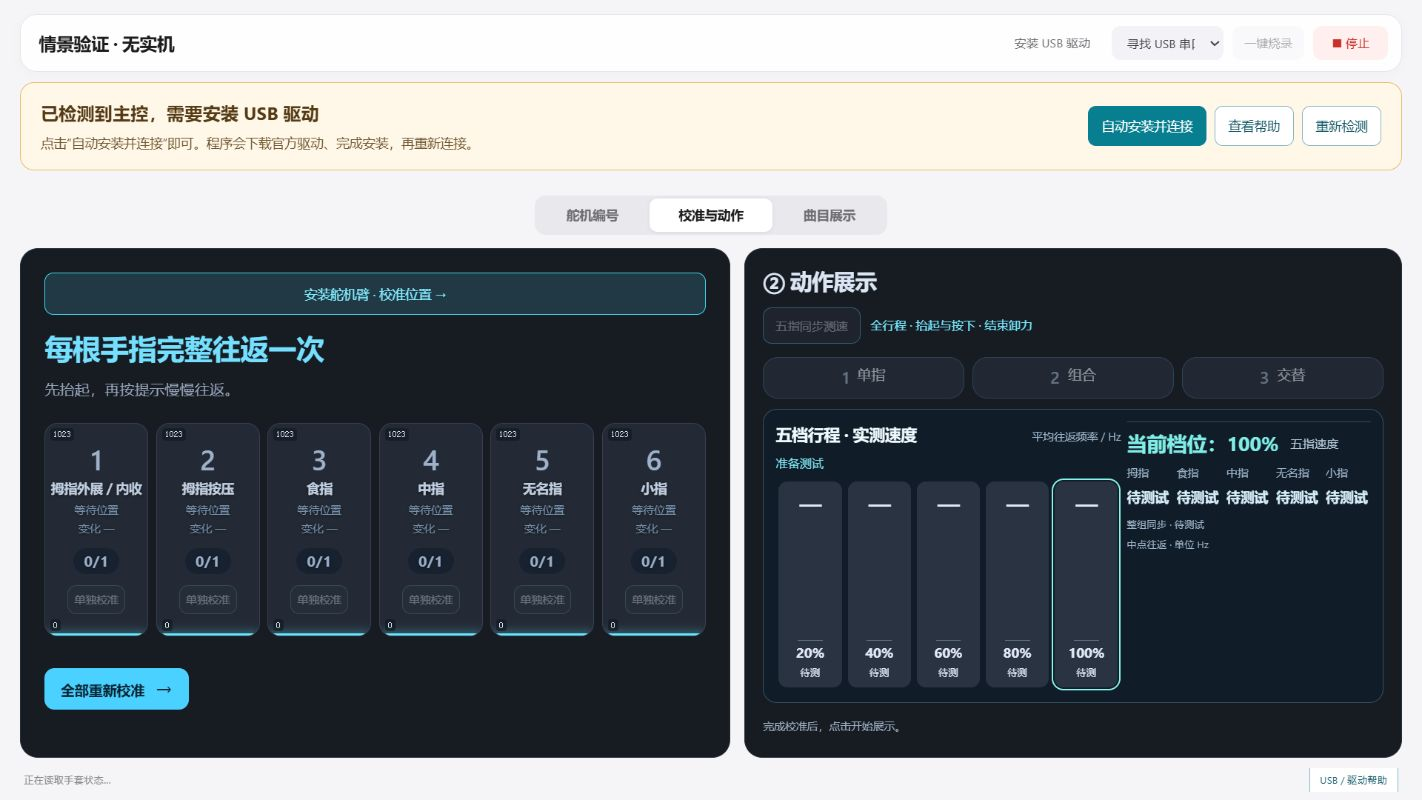
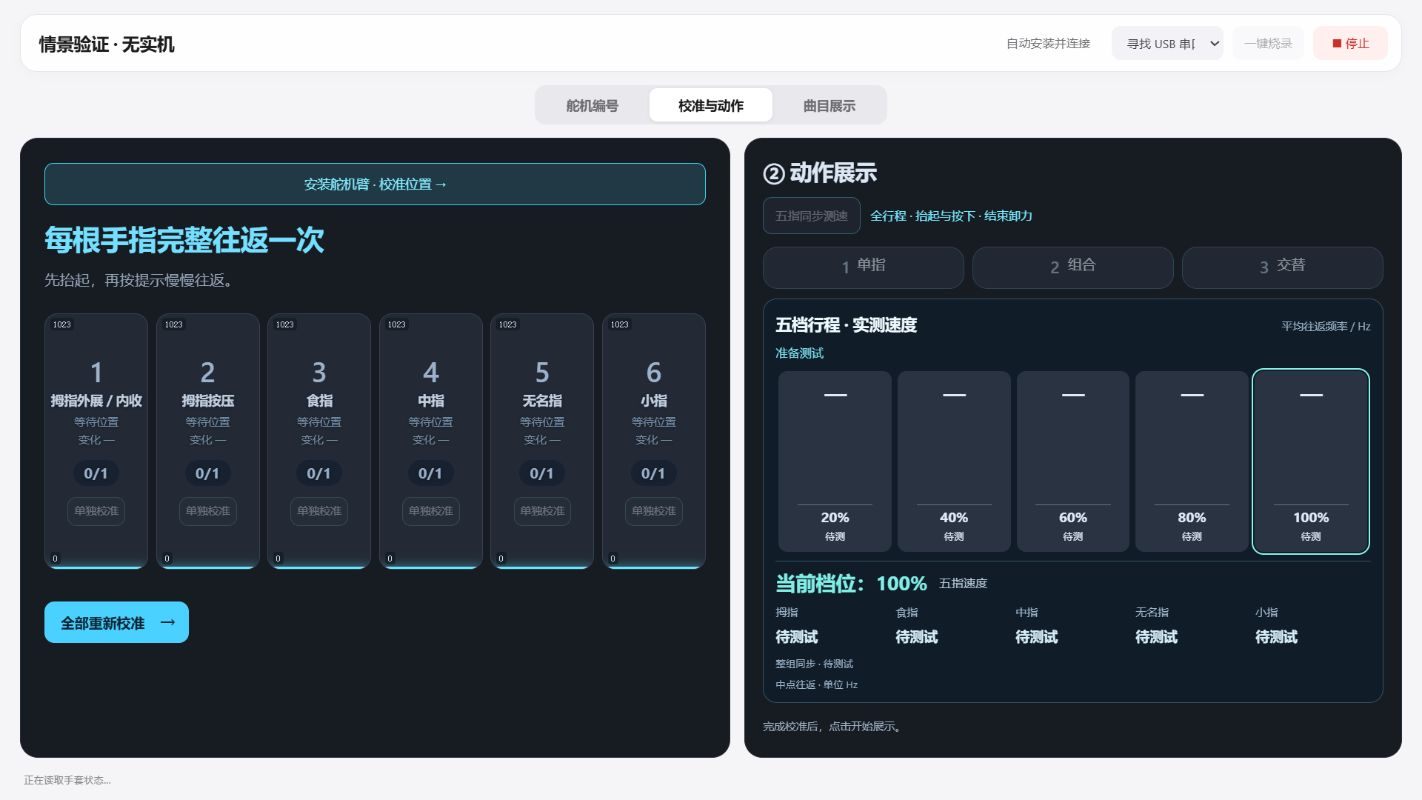
Keep USB driver setup inside the existing connection control

diff --git a/host/delivery-shell.js b/host/delivery-shell.js
@@ -10,14 +10,14 @@ function notice(text){q('demoNotice').textContent=text;}window.deliveryDemoNotic
 function tab(songs){q('demoCalibration').hidden=songs;q('demoSongs').hidden=!songs;q('demoTabCalibration').classList.toggle('active',!songs);q('demoTabSongs').classList.toggle('active',songs);}
 document.addEventListener('delivery:import',()=>tab(true));q('demoTabCalibration').onclick=()=>tab(false);q('demoTabSongs').onclick=()=>tab(true);
 async function api(path,body){const controller=new AbortController(),timer=setTimeout(()=>controller.abort(),4000);try{const r=await fetch(path,body===undefined?{cache:'no-store',signal:controller.signal}:{method:'POST',headers:{'Content-Type':'application/json'},body:JSON.stringify(body),signal:controller.signal});const j=await r.json();if(!r.ok||j.ok===false)throw Error(j.error||j.msg||`请求失败 ${r.status}`);return j;}finally{clearTimeout(timer);}}
-function paint(){const driverBusy=!!globalThis.PianoUsbDriver?.state()?.installation?.busy,isBusy=busy(),connected=!!bridge.connected&&!!S.info.ver,unknown=!!bridge.connected&&!connected&&attemptedIdentity===lastIdentity;q('demoConnection').textContent=driverBusy?'正在安装 USB 驱动':isBusy?'烧录中 '+(Number(firmware.progress)||0)+'% · 查看进度':connected?'已连接 '+bridge.port:unknown?bridge.port+'已连接 · 固件未识别':bridge.connected?'连接中 '+bridge.port:switching?'正在自动连接':'等待 USB · 自动连接';if(unknown)notice('串口已连接，固件未识别：'+(bridge.error||bridge.last_error||identificationError||'未收到有效应答，正在定期重新识别。'));if(!bridge.connected&&globalThis.PianoUsbDriver?.state()?.state==='missing_driver'&&!isBusy)q('demoConnection').textContent='安装 USB 驱动';q('demoConnection').classList.toggle('connected',connected);q('demoConnection').classList.toggle('warning',unknown);q('demoPort').classList.toggle('connected',!!bridge.connected&&q('demoPort').value===bridge.port);q('demoConnection').disabled=!isBusy&&(switching||active());q('demoPort').disabled=isBusy||switching;q('demoFlash').disabled=isBusy||active()||!q('demoPort').value||firmware.available===false;q('demoVersion').textContent=connected?({SCS:'SC09',STS:'STS'}[S.info.profile]||'识别中')+' · 设备 v'+S.info.ver:'';q('demoFirmwareTitle').textContent='烧录固件'+(firmware.version?' v'+firmware.version:'');const labels={idle:'等待操作',running:'处理中',built:'编译完成，未烧录',verified:'烧录完成，回读已验证',failed:'烧录失败',written_unverified:'已写入，回读未验证',queued:'准备中',stop:'正在停止任务',build:'正在编译',identify:'识别主控',write:'正在写入',verify:'校验写入内容',readback:'读取主控状态',complete:'完成'};q('demoFirmwareProgress').value=Math.max(0,Math.min(100,Number(firmware.progress)||0));let text=labels[firmware.busy?firmware.phase:firmware.state]||firmware.phase||'等待操作';if(firmware.error)text+='\n'+firmware.error;if(error)text+='\n'+error;if(firmware.stopConfirmed===true)text+='\n烧录前停止已确认。';if(firmware.verified===true)text+='\n未启动动作，可关闭窗口。';else if(firmware.written===true)text+='\n请确认主控回读结果，写入不代表验证通过。';q('demoFirmwareStatus').textContent=text;q('demoFirmwareLog').textContent=Array.isArray(firmware.log)?firmware.log.join('\n'):String(firmware.log||'');}
+function paint(){const driverBusy=!!globalThis.PianoUsbDriver?.state()?.installation?.busy,isBusy=busy(),connected=!!bridge.connected&&!!S.info.ver,unknown=!!bridge.connected&&!connected&&attemptedIdentity===lastIdentity;q('demoConnection').textContent=driverBusy?'安装驱动 '+(Number(globalThis.PianoUsbDriver.state()?.installation?.progress)||0)+'%':isBusy?'烧录中 '+(Number(firmware.progress)||0)+'% · 查看进度':connected?'已连接 '+bridge.port:unknown?bridge.port+'已连接 · 固件未识别':bridge.connected?'连接中 '+bridge.port:switching?'正在自动连接':'等待 USB · 自动连接';if(unknown)notice('串口已连接，固件未识别：'+(bridge.error||bridge.last_error||identificationError||'未收到有效应答，正在定期重新识别。'));if(!bridge.connected&&['missing_driver','device_error'].includes(globalThis.PianoUsbDriver?.state()?.state)&&!isBusy){q('demoConnection').textContent=globalThis.PianoUsbDriver.state()?.installation?.error?'重试安装驱动':'自动安装并连接';}q('demoConnection').title=globalThis.PianoUsbDriver?.state()?.installation?.message||'';q('demoConnection').classList.toggle('connected',connected);q('demoConnection').classList.toggle('warning',unknown);q('demoPort').classList.toggle('connected',!!bridge.connected&&q('demoPort').value===bridge.port);q('demoConnection').disabled=!isBusy&&(switching||active());q('demoPort').disabled=isBusy||switching;q('demoFlash').disabled=isBusy||active()||!q('demoPort').value||firmware.available===false;q('demoVersion').textContent=connected?({SCS:'SC09',STS:'STS'}[S.info.profile]||'识别中')+' · 设备 v'+S.info.ver:'';q('demoFirmwareTitle').textContent='烧录固件'+(firmware.version?' v'+firmware.version:'');const labels={idle:'等待操作',running:'处理中',built:'编译完成，未烧录',verified:'烧录完成，回读已验证',failed:'烧录失败',written_unverified:'已写入，回读未验证',queued:'准备中',stop:'正在停止任务',build:'正在编译',identify:'识别主控',write:'正在写入',verify:'校验写入内容',readback:'读取主控状态',complete:'完成'};q('demoFirmwareProgress').value=Math.max(0,Math.min(100,Number(firmware.progress)||0));let text=labels[firmware.busy?firmware.phase:firmware.state]||firmware.phase||'等待操作';if(firmware.error)text+='\n'+firmware.error;if(error)text+='\n'+error;if(firmware.stopConfirmed===true)text+='\n烧录前停止已确认。';if(firmware.verified===true)text+='\n未启动动作，可关闭窗口。';else if(firmware.written===true)text+='\n请确认主控回读结果，写入不代表验证通过。';q('demoFirmwareStatus').textContent=text;q('demoFirmwareLog').textContent=Array.isArray(firmware.log)?firmware.log.join('\n'):String(firmware.log||'');}
 async function identifyOnce(st,identity){const now=Date.now();if(identifying||busy()||active()||attemptedIdentity===identity&&now-lastProbeAt<(S.info.ver?10000:5000))return;identifying=true;attemptedIdentity=identity;lastProbeAt=now;identificationError='';T.attachBridge(st);stopPolling();paint();try{const reply=await api('/api/send',{cmd:'INFO',timeoutMs:650,quietMs:25});if(lastIdentity!==identity)return;const line=reply.lines?.find(l=>/^OK INFO\s/.test(l));if(line){const recovered=!S.info.ver;S.info=kv(line);S.needArm=true;refreshChips();if(recovered)notice('已自动连接 '+st.port+'，固件识别正常。');}else{S.info={};identificationError=reply.lines?.find(l=>/^ERR\b/.test(l))||'未收到有效 INFO 应答';}}catch(e){if(lastIdentity===identity){S.info={};identificationError=e.message;}}finally{identifying=false;paint();}}
 async function syncIdentity(st){const identity=st.connected?String(st.port)+':'+String(st.connectedAt):'';if(lastIdentity===identity){T._noteBridge(st);if(st.connected)await identifyOnce(st,identity);return;}const previous=lastIdentity;lastIdentity=identity;attemptedIdentity=null;identificationError='';T._q.length=0;if(T._qTimer){clearTimeout(T._qTimer);T._qTimer=null;}S.playing=false;if(S.raf)cancelAnimationFrame(S.raf);S.raf=null;stopPosPoll();silence();stopPolling();T.detachBridge();T._noteBridge(st);S.info={};S.slots={};S.needArm=true;if(window.pianoStrictExecutor?.active)window.pianoStrictExecutor.cancelled=true;document.dispatchEvent(new CustomEvent('delivery:identitychange',{detail:{previous,identity,state:st}}));refreshChips();if(st.connected)await identifyOnce(st,identity);}
 async function autoReconnect(st){if(st.connected){reconnectFailures=0;nextReconnectAt=0;return;}if(st.paused||busy()||active()||switching||Date.now()<nextReconnectAt)return;const ports=(st.ports||[]).filter(p=>p.eligible===true||p.candidate===true);const target=st.fixed?ports.find(p=>p.device===st.fixed):(ports.find(p=>p.device===chosen)||ports[0]);if(!target)return;switching=true;nextReconnectAt=Date.now()+2000;paint();try{const result=await api('/api/connect',{port:target.device,baud:115200});chosen=target.device;bridge=await api('/api/status');window.deliveryDemoState=bridge;reconnectFailures=0;if(!bridge.connected)throw Error('串口尚未就绪');await syncIdentity(bridge);notice('串口已自动连接，不自动启动动作。');}catch(e){reconnectFailures++;nextReconnectAt=Date.now()+Math.min(10000,2000*reconnectFailures);notice('正在自动重连：'+e.message);}finally{switching=false;paint();}}
 async function refresh(){if(polling)return;polling=true;try{const [st,fw]=await Promise.all([api('/api/status'),api('/api/firmware')]);bridge=st;firmware=fw;window.deliveryDemoState=st;const ports=(fw.ports||[]).filter(p=>p.eligible!==false&&(/CP210/i.test(p.label||p.description||'')||p.vid===4292));const current=st.fixed||chosen||st.port||q('demoPort').value;const options=ports.map(p=>new Option(p.port||p.device,p.port||p.device));if(st.fixed&&!options.length)options.push(new Option(st.fixed,st.fixed));if(Array.from(q('demoPort').options).map(o=>o.value).join('|')!==options.map(o=>o.value).join('|'))q('demoPort').replaceChildren(...options);if(options.some(o=>o.value===current))q('demoPort').value=current;else if(options.length)q('demoPort').selectedIndex=0;chosen=q('demoPort').value;paint();await syncIdentity(st);await autoReconnect(st);document.dispatchEvent(new CustomEvent('delivery:state',{detail:st}));paint();}catch(e){notice('读取状态失败：'+e.message);}finally{polling=false;}}
 async function connect(){if(busy()||switching)return;const target=q('demoPort').value;switching=true;error='';paint();try{if(active()){if(!window.deliveryDemoStop)throw Error('请先停止当前任务');await window.deliveryDemoStop();}const result=await api('/api/connect',{port:target,baud:115200});if(result.redirect){location.assign(result.redirect+'#play');return;}notice('串口已切换，不自动启动动作。');await refresh();}catch(e){notice('连接失败：'+e.message);}finally{switching=false;paint();}}
 
-q('demoConnection').onclick=()=>{if(globalThis.PianoUsbDriver?.state()?.installation?.busy||['missing_driver','device_error'].includes(globalThis.PianoUsbDriver?.state()?.state)){globalThis.PianoUsbDriver.open();return;}if(busy()){q('demoFirmwareDialog').show();return;}connect();};q('demoPort').onchange=()=>{chosen=q('demoPort').value;connect();};
+q('demoConnection').onclick=()=>{if(globalThis.PianoUsbDriver?.state()?.installation?.busy)return;if(['missing_driver','device_error'].includes(globalThis.PianoUsbDriver?.state()?.state)){globalThis.PianoUsbDriver.install();return;}if(busy()){q('demoFirmwareDialog').show();return;}connect();};q('demoPort').onchange=()=>{chosen=q('demoPort').value;connect();};
 q('demoStop').onclick=async()=>{try{if(busy()){T._q.length=0;if(T._qTimer){clearTimeout(T._qTimer);T._qTimer=null;}notice(firmware.stopConfirmed===true?'页面队列已清除；烧录前停止已确认，写入继续。':'页面队列已清除；主控维护中，硬件停止状态请以烧录日志为准。');return;}if(window.deliveryDemoStop)await window.deliveryDemoStop();T._q.length=0;if(T._qTimer){clearTimeout(T._qTimer);T._qTimer=null;}stopPlay(true);notice('已请求停止，不自动恢复。');}catch(e){notice('停止未确认：'+e.message);}};
 q('demoFlash').onclick=async()=>{if(busy()||active()||!q('demoPort').value)return;requesting=true;error='';q('demoFirmwareDialog').show();firmware={...firmware,state:'running',phase:'queued',progress:0,written:false,verified:false,error:''};paint();try{T._q.length=0;if(T._qTimer){clearTimeout(T._qTimer);T._qTimer=null;}stopPlay(true);await api('/api/firmware/flash',{port:q('demoPort').value});await refresh();}catch(e){error=e.message;firmware.state='failed';}finally{requesting=false;paint();}};
 q('demoFirmwareClose').onclick=()=>{q('demoFirmwareDialog').close();if(busy())notice('烧录仍在后台进行，点击顶部进度可查看；完成后自动恢复连接。');};

diff --git a/host/usb-driver.js b/host/usb-driver.js
@@ -11,17 +11,16 @@ function view(status,connected=false){
  if(state==='unplugged')return {show:true,title:'未检测到主控 USB',detail:'请接上主控，并使用支持数据传输的 USB 线。接好后会自动重新检测；已接好仍无反应可查看 USB 帮助。'};
  return {show:true,title:'暂时无法确认 USB 驱动状态',detail:'不能据此判断缺少驱动。可查看安装步骤，或在设备管理器核对 CP2102 是否有黄色感叹号。'};
 }
-const api={view,state:()=>null,open:()=>{}};
+const api={view,state:()=>null,open:()=>{},install:()=>{}};
 if(typeof module!=='undefined'&&module.exports)module.exports=api;
 if(!root.document||!['127.0.0.1','localhost','[::1]'].includes(root.location.hostname))return;
 function init(){
- if(document.getElementById('usbDriverHelp'))return;
- const banner=document.createElement('section');banner.id='usbDriverBanner';banner.hidden=true;banner.setAttribute('aria-label','USB 连接诊断');
- banner.innerHTML='<div><strong id="usbDriverTitle"></strong><p id="usbDriverDetail"></p><progress id="usbDriverInstallProgress" max="100" value="0" hidden></progress></div><div class="usbDriverActions"><button id="usbDriverAuto" class="usbDriverPrimary" hidden>自动安装并连接</button><button id="usbDriverHelp">查看帮助</button><button id="usbDriverRetry">重新检测</button></div>';
+ if(document.getElementById('usbDriverDialog'))return;
  const header=document.getElementById('demoTop')||document.querySelector('body>header');
- if(!header)return;header.after(banner);
- const help=document.createElement('button');help.id='usbDriverHelpEntry';help.textContent='USB / 驱动帮助';
- const footer=document.getElementById('demoFoot')||document.querySelector('nav');(footer||header).append(help);
+ if(!header)return;
+ // The compact console already has its connection button. Keep its layout.
+ const help=document.getElementById('demoTop')?null:document.createElement('button');
+ if(help){help.id='usbDriverHelpEntry';help.textContent='USB / 驱动帮助';(document.querySelector('nav')||header).append(help);}
  const dialog=document.createElement('dialog');dialog.id='usbDriverDialog';dialog.className='usbDriverDialog';dialog.setAttribute('aria-labelledby','usbDriverGuideTitle');
  dialog.innerHTML=`<div class="usbDriverHeading"><div><small>第一次在这台 Windows 电脑使用</small><h2 id="usbDriverGuideTitle">安装 CP2102 串口驱动</h2></div><button id="usbDriverClose" aria-label="关闭驱动帮助">关闭</button></div><p id="usbDriverGuideState" role="status"></p><ol><li><b>下载官方驱动</b><p>适用于 Windows 10 / 11，选择 CP210x Universal Windows Driver。</p><a class="usbDriverPrimary" href="${download}" target="_blank" rel="noopener noreferrer">下载官方驱动 ZIP</a> <a href="${official}" target="_blank" rel="noopener noreferrer">官网下载页</a></li><li><b>解压，然后在设备管理器安装</b><p>右键 Windows 开始按钮 → 设备管理器 → 其他设备 → 带黄色感叹号的 <strong>CP2102 USB to UART Bridge Controller</strong>。</p><p>右键它 → 更新驱动程序 → 浏览我的电脑以查找驱动程序 → 选择刚解压的文件夹，勾选“包括子文件夹” → 下一步。</p><p class="usbDriverNote">ZIP 中没有安装 EXE 是正常的；请先解压，不要选择 ZIP 文件。Windows 如询问管理员权限，请由电脑使用者确认。</p></li><li><b>看到 COM 口后，回到调试台</b><p>成功后，设备应出现在“端口（COM 和 LPT）”，名称含 Silicon Labs CP210x，后面带 COM 编号。</p><button id="usbDriverCheck" class="usbDriverPrimary">安装完成，重新检测</button></li></ol><p id="usbDriverCheckResult" role="status"></p><details><summary>仍然没有 COM 口？</summary><p>确认使用数据线，重新插拔主控 USB，并检查设备管理器中的错误代码。代码 28 表示缺少驱动；其他错误需要按实际错误处理。安装驱动不需要给舵机重新编号或重新烧录。</p></details>`;
  document.body.append(dialog);
@@ -31,15 +30,15 @@ function init(){
  const install=document.createElement('div');install.className='usbDriverInstallBox';install.innerHTML='<p>自动下载并校验官方驱动，安装后自动检测 COM 口、恢复连接。支持 Silicon Labs 与微软 Windows Update 官方分发。</p><button id="usbDriverInstall" class="usbDriverPrimary">自动安装并连接</button><p class="usbDriverNote">Windows 可能弹出管理员授权窗口，请在系统窗口确认。程序不会卸载现有驱动、重启电脑、重新编号或启动舵机。</p><p id="usbDriverInstallState" role="status"></p>';fallback.before(install);
  let latest=null,connected=false,checking=false,lastCheck=0,starting=false;
  api.state=()=>latest;
- function paint(){const model=view(latest,connected),job=latest?.installation||{},installing=starting||!!job.busy;banner.hidden=!model.show&&!installing;banner.dataset.state=latest?.state||'unavailable';document.getElementById('demoRoot')?.classList.toggle('usbDriverNotice',!banner.hidden);document.getElementById('usbDriverTitle').textContent=installing?'正在自动配置 USB 驱动':model.title;document.getElementById('usbDriverDetail').textContent=installing?job.message||'正在准备官方驱动…':job.message||model.detail;document.getElementById('usbDriverGuideState').textContent=model.title+'。'+model.detail;document.getElementById('usbDriverCheck').disabled=checking||installing;document.getElementById('usbDriverRetry').disabled=checking||installing;const canInstall=['missing_driver','device_error'].includes(latest?.state);document.getElementById('usbDriverAuto').hidden=!canInstall&&!installing;for(const id of ['usbDriverAuto','usbDriverInstall']){const n=document.getElementById(id);n.disabled=installing||connected||!canInstall;n.textContent=installing?'正在安装…':'自动安装并连接';}document.getElementById('usbDriverInstallState').textContent=job.message||'';const progress=document.getElementById('usbDriverInstallProgress');progress.hidden=!installing;progress.value=Number(job.progress)||0;document.dispatchEvent(new CustomEvent('usbdriver:state',{detail:{...latest,connected}}));}
+ function paint(){const model=view(latest,connected),job=latest?.installation||{},installing=starting||!!job.busy;document.getElementById('usbDriverGuideState').textContent=model.title+'。'+model.detail;document.getElementById('usbDriverCheck').disabled=checking||installing;const canInstall=['missing_driver','device_error'].includes(latest?.state),button=document.getElementById('usbDriverInstall');button.disabled=installing||connected||!canInstall;button.textContent=installing?'正在安装…':'自动安装并连接';document.getElementById('usbDriverInstallState').textContent=job.message||'';document.dispatchEvent(new CustomEvent('usbdriver:state',{detail:{...latest,connected}}));}
  async function read(path,body){const controller=new AbortController(),timer=setTimeout(()=>controller.abort(),5000);try{const r=await fetch(path,body===undefined?{cache:'no-store',signal:controller.signal}:{method:'POST',headers:{'Content-Type':'application/json'},body:JSON.stringify(body),signal:controller.signal});const value=await r.json();if(!r.ok||value.ok===false)throw Error(value.error||'状态服务暂不可用');return value;}finally{clearTimeout(timer);}}
  async function check(force=false){if(checking||!force&&Date.now()-lastCheck<(latest?.installation?.busy?1000:5000))return;checking=true;lastCheck=Date.now();try{const status=await read('/api/status');connected=!!status.connected;if(connected&&!force&&!latest?.installation?.busy){latest={...latest,state:'ready'};return;}const previous=latest?.state;latest=await read('/api/driver'+(force?'?refresh=1':''));if(latest.state==='ready'&&latest.port_available&&previous!=='ready'){await read('/api/ports');document.dispatchEvent(new CustomEvent('usbdriver:ready'));}document.getElementById('usbDriverCheckResult').textContent=latest.state==='ready'?(latest.port_available?'驱动已就绪，调试台会重新连接；不会启动动作。':'驱动正常，正在等待系统分配 COM 口。'):view(latest,connected).detail;}catch(e){if(!connected)latest={...latest,state:'unavailable'};document.getElementById('usbDriverCheckResult').textContent='重新检测未完成，请确认本机调试服务仍在运行。';}finally{checking=false;paint();}}
  async function autoInstall(){if(starting||latest?.installation?.busy||connected)return;starting=true;paint();try{latest={...latest,installation:await read('/api/driver/install',{})};}catch(e){latest={...latest,installation:{busy:false,error:e.message}};}finally{starting=false;lastCheck=0;paint();check(true);}}
  api.open=()=>{paint();if(!dialog.open)dialog.showModal();check(true);};
- document.getElementById('usbDriverHelp').onclick=api.open;help.onclick=api.open;
+ if(help)help.onclick=api.open;
  document.getElementById('usbDriverClose').onclick=()=>dialog.close();
- document.getElementById('usbDriverAuto').onclick=autoInstall;document.getElementById('usbDriverInstall').onclick=autoInstall;
- document.getElementById('usbDriverRetry').onclick=()=>check(true);document.getElementById('usbDriverCheck').onclick=()=>check(true);
+ api.install=autoInstall;document.getElementById('usbDriverInstall').onclick=autoInstall;
+ document.getElementById('usbDriverCheck').onclick=()=>check(true);
  setInterval(()=>{if(!document.hidden)check();},1000);check();
 }
 root.PianoUsbDriver=api;

diff --git a/host/usb-driver.css b/host/usb-driver.css
@@ -1,5 +1,2 @@
-#usbDriverBanner{box-sizing:border-box;display:flex;align-items:center;justify-content:space-between;gap:20px;padding:16px 20px;margin:0 auto 12px;width:100%;border:1px solid #e9b96a;border-radius:14px;background:#fff7e8;color:#553b15;flex-shrink:0;text-align:left}
-#usbDriverBanner[hidden]{display:none!important}#usbDriverBanner strong{font-size:18px;color:#553b15}#usbDriverBanner p{font-size:13px;line-height:1.6;margin:5px 0 0;color:#6f552e}#usbDriverBanner[data-state=unplugged],#usbDriverBanner[data-state=unavailable]{background:#edf7fa;border-color:#a7ced9;color:#244450}#usbDriverBanner[data-state=unplugged] strong,#usbDriverBanner[data-state=unavailable] strong{color:#244450}
-#demoRoot.usbDriverNotice{grid-template-rows:58px auto 46px minmax(0,1fr) 24px}body.delivery-compact>#usbDriverDialog[open]{display:block!important}#usbDriverBanner .usbDriverPrimary{background:#087f91;color:#fff;border-color:#087f91}#usbDriverBanner progress{width:100%;height:7px;margin-top:10px;accent-color:#087f91}.usbDriverInstallBox{margin:16px 0 22px;padding:16px;border:1px solid #b9dce2;border-radius:12px;background:#f2fafb}#usbDriverDialog details ol{padding-top:4px}#usbDriverBanner button[hidden]{display:none!important}
-.usbDriverActions{display:flex;gap:8px;flex-shrink:0}#usbDriverBanner button,#usbDriverHelpEntry,#usbDriverDialog button,#usbDriverDialog .usbDriverPrimary{font:inherit;border:1px solid #85b8c1;border-radius:8px;background:#fff;color:#135767;padding:9px 13px;cursor:pointer;font-size:13px}#usbDriverHelpEntry{padding:5px 10px;font-size:12px;margin-left:auto;white-space:nowrap}#usbDriverDialog{box-sizing:border-box;width:min(760px,calc(100vw - 28px));max-height:calc(100vh - 32px);overflow:auto;border:1px solid #d2e0e5;border-radius:18px;padding:26px;color:#203944;background:#fff;box-shadow:0 18px 70px #092d4740;font-family:system-ui,'Microsoft YaHei',sans-serif}#usbDriverDialog::backdrop{background:#172b3d80}.usbDriverHeading{display:flex;align-items:flex-start;justify-content:space-between;gap:20px}.usbDriverHeading small{color:#617c88}.usbDriverHeading h2{font-size:25px;margin:5px 0 10px}#usbDriverGuideState{background:#edf8fa;border-radius:10px;padding:12px;font-size:14px;line-height:1.6}#usbDriverDialog ol{padding-left:25px;line-height:1.65}#usbDriverDialog li{margin:20px 0}#usbDriverDialog li>b{font-size:18px}#usbDriverDialog p{font-size:14px;line-height:1.65}#usbDriverDialog a{color:#08788b}#usbDriverDialog .usbDriverPrimary{display:inline-block;text-decoration:none;background:#087f91;color:white;border-color:#087f91}#usbDriverDialog .usbDriverNote{color:#6b7880;font-size:12px}#usbDriverCheckResult{font-weight:600;color:#086b7b}#usbDriverDialog details{font-size:13px;color:#4a6570}#usbDriverDialog button:disabled{opacity:.5;cursor:wait}body>header+#usbDriverBanner{width:min(1200px,calc(100% - 32px));margin-top:12px}
-@media(max-width:650px){#usbDriverBanner{align-items:flex-start;flex-direction:column;gap:10px;padding:13px 15px}#usbDriverBanner strong{font-size:16px}.usbDriverActions{flex-wrap:wrap}#usbDriverDialog{padding:18px}.usbDriverHeading h2{font-size:21px}#usbDriverHelpEntry{font-size:11px;padding:5px 7px}#usbDriverDialog ol{padding-left:21px}}
+#usbDriverHelpEntry,#usbDriverDialog button,#usbDriverDialog .usbDriverPrimary{font:inherit;border:1px solid #85b8c1;border-radius:8px;background:#fff;color:#135767;padding:9px 13px;cursor:pointer;font-size:13px}#usbDriverHelpEntry{padding:5px 10px;font-size:12px;margin-left:auto;white-space:nowrap}#usbDriverDialog{box-sizing:border-box;width:min(760px,calc(100vw - 28px));max-height:calc(100vh - 32px);overflow:auto;border:1px solid #d2e0e5;border-radius:18px;padding:26px;color:#203944;background:#fff;box-shadow:0 18px 70px #092d4740;font-family:system-ui,'Microsoft YaHei',sans-serif}#usbDriverDialog::backdrop{background:#172b3d80}.usbDriverHeading{display:flex;align-items:flex-start;justify-content:space-between;gap:20px}.usbDriverHeading small{color:#617c88}.usbDriverHeading h2{font-size:25px;margin:5px 0 10px}#usbDriverGuideState{background:#edf8fa;border-radius:10px;padding:12px;font-size:14px;line-height:1.6}#usbDriverDialog ol{padding-left:25px;line-height:1.65}#usbDriverDialog li{margin:20px 0}#usbDriverDialog li>b{font-size:18px}#usbDriverDialog p{font-size:14px;line-height:1.65}#usbDriverDialog a{color:#08788b}#usbDriverDialog .usbDriverPrimary{display:inline-block;text-decoration:none;background:#087f91;color:white;border-color:#087f91}#usbDriverDialog .usbDriverNote{color:#6b7880;font-size:12px}#usbDriverCheckResult{font-weight:600;color:#086b7b}#usbDriverDialog details{font-size:13px;color:#4a6570}#usbDriverDialog button:disabled{opacity:.5;cursor:wait}
+@media(max-width:650px){#usbDriverDialog{padding:18px}.usbDriverHeading h2{font-size:21px}#usbDriverHelpEntry{font-size:11px;padding:5px 7px}#usbDriverDialog ol{padding-left:21px}}

diff --git a/README.md b/README.md
@@ -4,7 +4,7 @@
 
 **[下载源码 ZIP](https://github.com/cdh66666/piano-glove/archive/refs/heads/main.zip)** · **[图解使用指南](docs/ILLUSTRATED-GUIDE.md)** · **[完整操作与维护](docs/LLM-START-HERE.md)**
 
-**给客户使用：[下载 Windows 免 Python 运行包](https://github.com/cdh66666/piano-glove/releases/download/windows-driver-20261021/PianoGlove-Windows-20261021.zip)**。解压后双击 `01-打开软件.bat`；缺驱动时在网页点“自动安装并连接”，其余自动处理。
+**给客户使用：[下载 Windows 免 Python 运行包](https://github.com/cdh66666/piano-glove/releases/download/windows-driver-20261021-r2/PianoGlove-Windows-20261021.zip)**。解压后双击 `01-打开软件.bat`；缺驱动时在网页点“自动安装并连接”，其余自动处理。
 
 ![六台已完成编号的真实调试台，2026-10-21](docs/images/debug-console-20261021.png)
 

diff --git a/docs/USB-DRIVER-SETUP.md b/docs/USB-DRIVER-SETUP.md
@@ -5,7 +5,7 @@
 ## 点击一次，处理驱动并继续连接
 
 1. 用 USB 数据线连接主控，保持原有舵机接线与供电方式。
-2. 在调试台的驱动提示中点击 **自动安装并连接**。
+2. 顶部连接按钮发现缺驱动后会变为 **自动安装并连接**，点击一次即可；没有额外提示框。
 3. 程序优先从 Silicon Labs 官方地址取得驱动包；常见 64 位 Windows 在该站不可达时自动使用微软 Windows Update 官方备用包。校验对应硬件和可信数字签名后启动 Windows 驱动安装。
 4. **Windows 弹出 UAC 管理员权限窗口时，客户本人确认“是”。** 网页不能替代或绕过这个系统确认；若使用标准账户，可能需要该电脑管理员输入凭据。
 5. 安装结束后，调试台自动重新检测 USB 和 COM 口，再连接主控。无需关闭页面或手工查找 COM 号。

diff --git a/docs/客户软件测试包_启动说明.md b/docs/客户软件测试包_启动说明.md
@@ -5,7 +5,7 @@
 ## 第一次连接这台电脑
 
 1. 主控接 USB 数据线，舵机按现有装置方式供电。
-2. 页面显示缺少驱动时，点一次 **自动安装并连接**。
+2. 缺少驱动时，顶部原连接按钮会变为 **自动安装并连接**，点一次即可。
 3. Windows 弹出管理员授权窗口时确认“是”；之后下载、校验、安装、查找 COM 口和连接由程序处理。
 
 正常已有驱动时直接连接，不重复安装。若接了多块主控，在页面选择实际使用的一块。驱动安装需要联网及电脑管理员权限；取消授权或安装失败时会显示真实结果。
